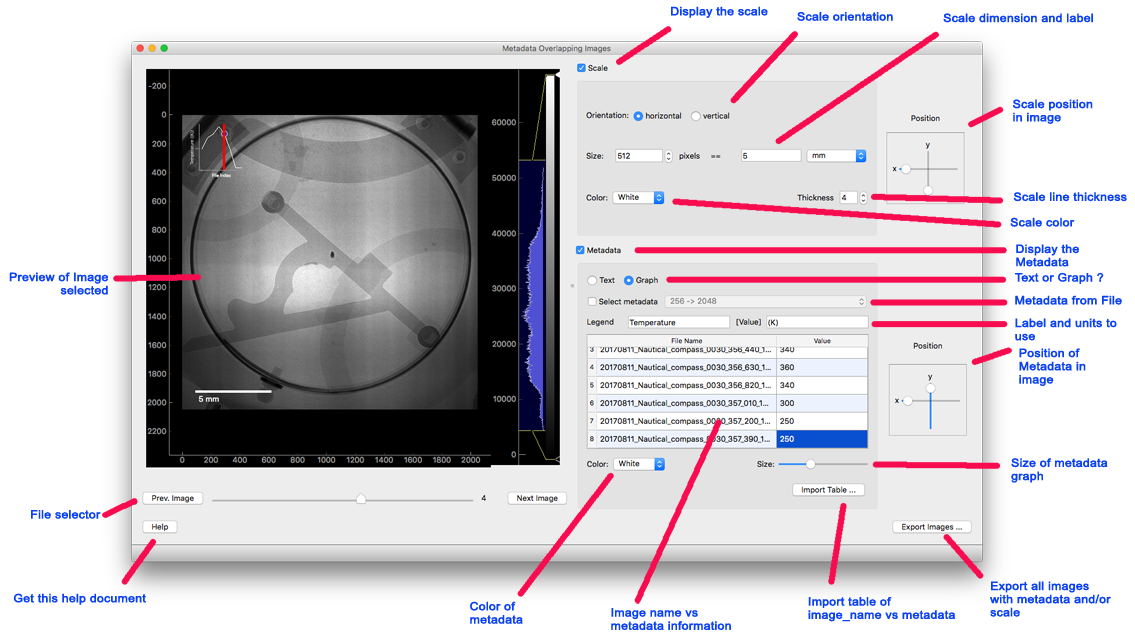
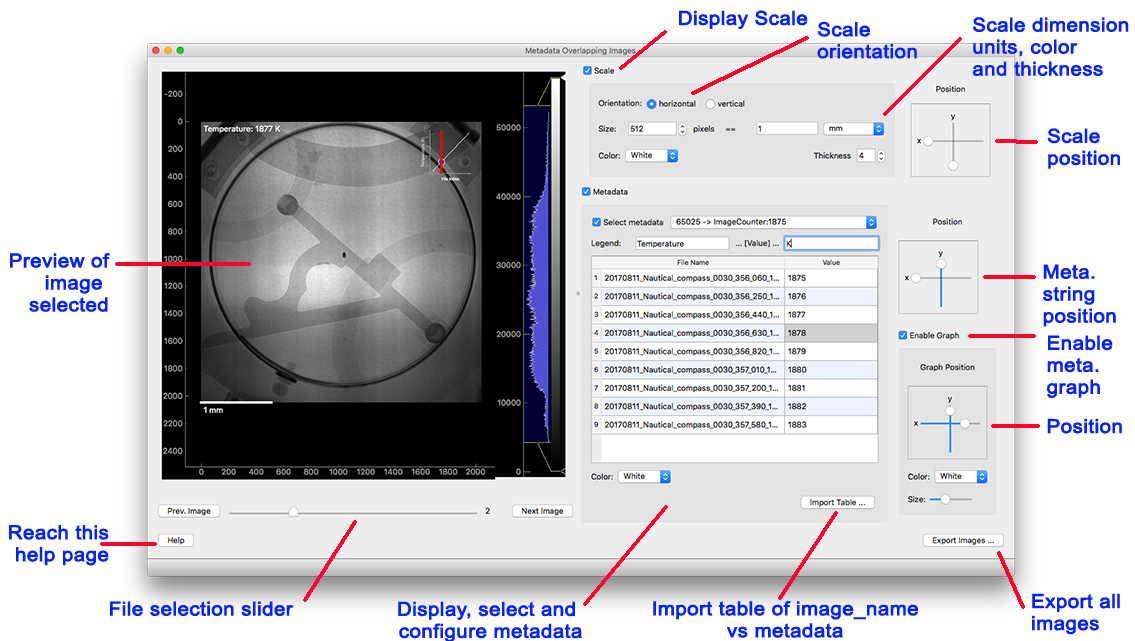
Updated doc

diff --git a/content/tutorial/notebooks/metadata_overlapping_images/_index.en.md b/content/tutorial/notebooks/metadata_overlapping_images/_index.en.md
@@ -61,8 +61,8 @@ Select the **scale** option to add a dimension marker on top of the images. You 
 
 ### Metadata
 
-When using **metadata**, you can either display the current metadata, or a graph showing the current file metadata
-position.
+When using **metadata**, you can display the current metadata as a string. But if you chose to, you can
+also display a graph showing the current file metadata position over the entire set of images metadata.
 
 #### Text
 
@@ -73,11 +73,17 @@ specially dedicated to this purpose (WORK IN PROGRESS).
 
 <img src='/tutorial/notebooks/metadata_overlapping_images/images/metadata_text.gif' />
 
-#### Graph
+{{% notice info %}}
+It's sometimes necessary to format the default metadata value (especially if you want to display the graph). To do so,
+right click in the right column of the table to reach the **metadata string parser (string filter)**.
+<img src='/tutorial/notebooks/metadata_overlapping_images/images/string_filter_1.png' />
+Then define the first and last part of the string to remove
+<img src='/tutorial/notebooks/metadata_overlapping_images/images/string_filter_2.png' />
+{{% /notice %}}
 
-You can also display a graph showing the current metadata position related to the full metadata plot.
 
-<img src='/tutorial/notebooks/metadata_overlapping_images/images/metadata_graph.gif' />
+
+
 
 ### Export
 
